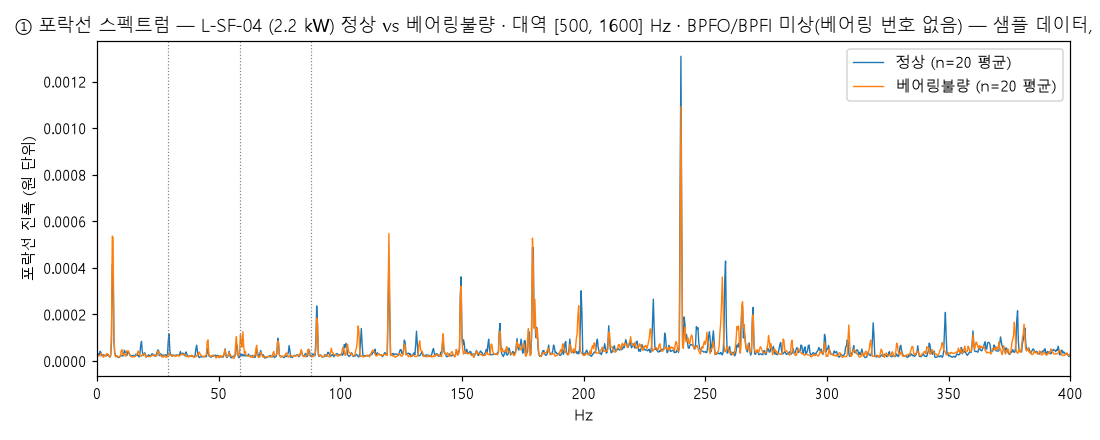
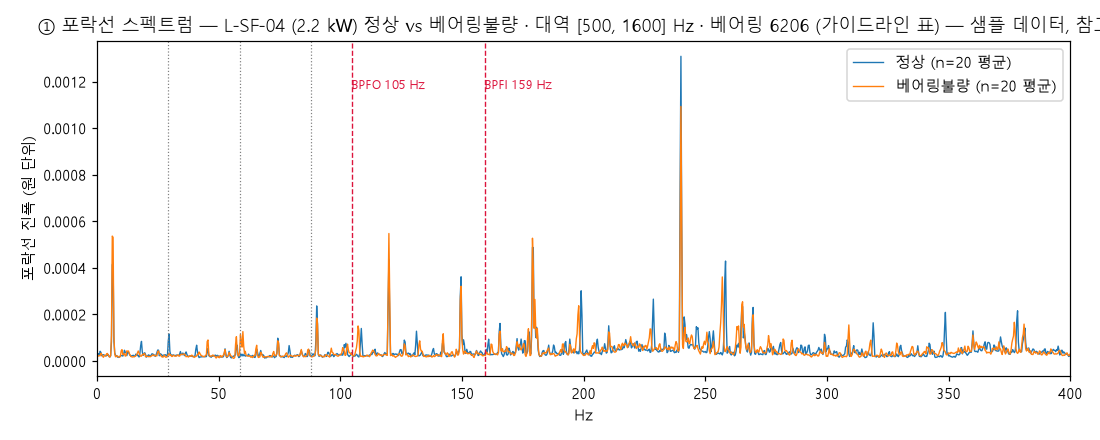
AI Hub 설명서 2종 반영 — 진동 단위 g·단축 vertical·VVVF·라벨링 기준 확정 (docs/aihub_structure.md §11), config/aihub_bearings.yaml (가이드라인 표의 모터별 베어링 + 카탈로그 기하 추정), 포락선 BPFO/BPFI 배율 계산 (bearing_known·bearing_source), 요약·그림·보정 메모 §2b 갱신, 테스트 갱신 (114 통과)

Changed region(s): [[0.0, 0.0295, 1.0, 0.0886], [0.3091, 0.1773, 0.4018, 0.2068], [0.4327, 0.1773, 0.4945, 0.2068]]

diff --git a/motor_dt_viz/tools/aihub/extract_features.py b/motor_dt_viz/tools/aihub/extract_features.py
@@ -34,6 +34,31 @@ from scipy.stats import kurtosis  # noqa: E402
 VIZ = Path(__file__).resolve().parents[2]
 CFG = yaml.safe_load(open(VIZ / "config" / "aihub_features.yaml", encoding="utf-8"))
 FMT = yaml.safe_load(open(VIZ / "config" / "aihub_format.yaml", encoding="utf-8"))
+BRG = yaml.safe_load(open(VIZ / "config" / "aihub_bearings.yaml", encoding="utf-8")) if (VIZ / "config" / "aihub_bearings.yaml").exists() else {"geometry": {}, "motors": {}}
+
+
+def bearing_mults(motor_name: str, side: str = "de") -> tuple[float, float, str] | None:
+    """가이드라인 표의 모터별 베어링 → (BPFO/fr, BPFI/fr, 호칭). 없으면 None (우리 M1~M5 값으로 대신하지 않는다)."""
+    m = BRG["motors"].get(motor_name)
+    if not m:
+        return None
+    g = BRG["geometry"].get(str(m[side]))
+    if not g:
+        return None
+    import math
+    k = g["ball_d_mm"] / g["pitch_d_mm"] * math.cos(math.radians(g.get("contact_deg", 0)))
+    return g["n_balls"] / 2 * (1 - k), g["n_balls"] / 2 * (1 + k), str(m[side])
+
+
+def envelope_ratio(f: np.ndarray, amp: np.ndarray, f0: float) -> float:
+    """포락선 스펙트럼에서 f0 ±tol 피크 ÷ 주변(±noise_window, 피크 영역 제외) 중앙값."""
+    tol = CFG.get("envelope_peak_tolerance", 0.03); w = CFG.get("envelope_noise_window_hz", 25)
+    pk = (f >= f0 * (1 - tol)) & (f <= f0 * (1 + tol))
+    nb = (f >= f0 - w) & (f <= f0 + w) & ~pk
+    if not pk.any() or nb.sum() < 5:
+        return float("nan")
+    floor = float(np.median(amp[nb]))
+    return float(amp[pk].max() / floor) if floor > 0 else float("nan")
 
 
 # ------------------------------------------------------------------ 신호 처리
@@ -144,6 +169,18 @@ def features_for_file(r: pd.Series, l2: Path) -> list[dict]:
         if not np.isfinite(fr_use):
             lo, hi = CFG["fr_search_hz"]; m = (f >= lo) & (f <= hi); fr_use = float(f[m][np.argmax(amp[m])]); fr_source = "peak_search"
         tol = CFG["harmonic_tolerance"]
+        # 베어링 포락선 배율: 가이드라인 표의 베어링(DE·NDE)이 있을 때만. 진동 신호만 (전류는 NaN)
+        env_cols = {"env_bpfo_ratio": float("nan"), "env_bpfi_ratio": float("nan"), "env_bpfo_ratio_nde": float("nan"), "env_bpfi_ratio_nde": float("nan"),
+                    "bearing_known": False, "bearing_de": "", "bearing_nde": "", "bpfo_hz": float("nan"), "bpfi_hz": float("nan"), "bearing_source": ""}
+        bm = bearing_mults(str(r["aihub_motor_name"]), "de") if r["signal"] == "vibration" else None
+        if bm and np.isfinite(fr):
+            fe, ae = envelope_spectrum(x, fs)
+            env_cols.update({"env_bpfo_ratio": envelope_ratio(fe, ae, bm[0] * fr), "env_bpfi_ratio": envelope_ratio(fe, ae, bm[1] * fr),
+                             "bearing_known": True, "bearing_de": bm[2], "bpfo_hz": bm[0] * fr, "bpfi_hz": bm[1] * fr,
+                             "bearing_source": "guideline table + catalog geometry (estimated)"})
+            bn = bearing_mults(str(r["aihub_motor_name"]), "nde")
+            if bn:
+                env_cols.update({"env_bpfo_ratio_nde": envelope_ratio(fe, ae, bn[0] * fr), "env_bpfi_ratio_nde": envelope_ratio(fe, ae, bn[1] * fr), "bearing_nde": bn[2]})
         lo_s, hi_s = CFG["fr_search_hz"]; ms = (f >= lo_s) & (f <= hi_s)
         fr_peak = float(f[ms][np.argmax(amp[ms])]) if ms.any() else float("nan")   # 1× 피크 탐색값 — 어노테이션 rpm 과 다르면 인버터 구동 의심
         row = {
@@ -155,7 +192,7 @@ def features_for_file(r: pd.Series, l2: Path) -> list[dict]:
             "vel_unit_note": f"accel_unit={CFG['accel_unit']} (추정)" if r["signal"] == "vibration" else "",
             "fr_hz": fr_use, "fr_source": fr_source, "fr_peak_hz": fr_peak,
             "a_1x": peak_near(f, amp, fr_use, tol), "a_2x": peak_near(f, amp, 2 * fr_use, tol), "a_3x": peak_near(f, amp, 3 * fr_use, tol),
-            "env_bpfo_ratio": float("nan"), "env_bpfi_ratio": float("nan"), "bearing_known": False,
+            **env_cols,
             "band_lo": band_rms(x, fs, *CFG["bands_hz"]["lo"]), "band_mid": band_rms(x, fs, *CFG["bands_hz"]["mid"]), "band_hi": band_rms(x, fs, *CFG["bands_hz"]["hi"]),
             "clipping_ratio": float(np.mean(np.abs(x) >= CFG["clipping_top_fraction"] * np.abs(x).max())) if np.abs(x).max() > 0 else 0.0,
             "dc_offset": float(x.mean()), "nan_count": int(np.isnan(x).sum()),
@@ -199,7 +236,11 @@ def make_plots(feat: pd.DataFrame, meta: pd.DataFrame, l2: Path, plots: Path) ->
         fr = brg["rated_rpm"].iloc[0] / 60
         for k in (1, 2, 3): ax.axvline(k * fr, color="gray", ls=":", lw=.8)
         ax.set_xlim(0, 400); ax.set_xlabel("Hz"); ax.set_ylabel("포락선 진폭 (원 단위)"); ax.legend()
-        ax.set_title(f"① 포락선 스펙트럼 — {m} ({brg['power_kw'].iloc[0]} kW) 정상 vs 베어링불량 · 대역 {CFG['envelope_band_hz']} Hz · BPFO/BPFI 미상(베어링 번호 없음) — {TAG}")
+        bm = bearing_mults(str(m), "de")
+        if bm:
+            for mult, nm in ((bm[0], "BPFO"), (bm[1], "BPFI")):
+                ax.axvline(mult * fr, color="crimson", ls="--", lw=.9); ax.text(mult * fr, ax.get_ylim()[1] * .85, f"{nm} {mult*fr:.0f} Hz", color="crimson", fontsize=8)
+        ax.set_title(f"① 포락선 스펙트럼 — {m} ({brg['power_kw'].iloc[0]} kW) 정상 vs 베어링불량 · 대역 {CFG['envelope_band_hz']} Hz · 베어링 {bm[2] if bm else '미상'} (가이드라인 표) — {TAG}")
         p = plots / "01_envelope_normal_vs_bearing.png"; fig.tight_layout(); fig.savefig(p, dpi=110); plt.close(fig); made.append(p.name)
     # ② 정상 vs 축정렬불량 속도 스펙트럼 1×·2×
     mis = vib[vib["label_no"] == "03"]
@@ -242,14 +283,15 @@ def write_summary(feat: pd.DataFrame, meta: pd.DataFrame, report: dict, path: Pa
     fc = feat[feat["signal"] == "current"]
     L = ["# AI Hub 경량 샘플 특징 요약 (S3) — 참고용", "",
          "**경량 샘플 기준 참고값. 표본이 적고 원본과 다를 수 있어 임계값 보정에 사용하지 않는다.** "
-         "진동 단위는 설명서 미확인(g 추정)이라 속도 RMS 절대값은 단위가 확정되면 달라질 수 있다.", "",
+         "진동 단위 g 는 가이드라인 v2.4 로 확정. 베어링 배율은 가이드라인 표의 베어링 호칭 + 카탈로그 기하(추정)로 계산한 값이다.", "",
          f"- 입력: L2 {len(meta)} 파일 (진동 {int((meta['signal']=='vibration').sum())}, 전류 {int((meta['signal']=='current').sum())}), 특징 {len(feat)} 행(파일·채널). "
          f"변환 {report.get('s_per_file', 0)*1000:.1f} ms/파일, CSV→Parquet 크기비 ×{report.get('size_ratio', 0)}.", ""]
     L += ["## 1. 용량·라벨별 파일 수와 속도 RMS (진동, mm/s, g 추정)", "",
           "| 용량 | 모터 | 라벨 | 파일 | vel_rms 중앙값 | 최소~최대 | 95 % | 가속도 RMS 중앙값 (원 단위) | crest 중앙값 | 포락선 배율 |", "|---|---|---|---|---|---|---|---|---|---|"]
     for (kw, m, lab), g in fv.groupby(["power_kw", "aihub_motor_name", "label"]):
         v = g["vel_rms_mm_s"]
-        L.append(f"| {kw} | {m} | {lab} | {len(g)} | {v.median():.2f} | {v.min():.2f}~{v.max():.2f} | {v.quantile(.95):.2f} | {g['rms'].median():.4f} | {g['crest_factor'].median():.1f} | 계산 안 됨 (베어링 번호 없음) |")
+        eb = g["env_bpfo_ratio"]
+        L.append(f"| {kw} | {m} | {lab} | {len(g)} | {v.median():.2f} | {v.min():.2f}~{v.max():.2f} | {v.quantile(.95):.2f} | {g['rms'].median():.4f} | {g['crest_factor'].median():.1f} | " + (f"BPFO {eb.median():.1f} / BPFI {g['env_bpfi_ratio'].median():.1f} ({g['bearing_de'].iloc[0]})" if eb.notna().any() else "베어링 미상") + " |")
     # ISO 위치
     L += ["", "## 2. 현재 임계값과의 대략적 위치 (참고)", ""]
     for kw, g in fv[fv["label_no"] == "00"].groupby("power_kw"):
@@ -278,7 +320,7 @@ def write_summary(feat: pd.DataFrame, meta: pd.DataFrame, report: dict, path: Pa
           "- 진동 crest factor > 10 파일이 축정렬불량·불평형에 몰려 있다 — 충격성 성분인지 센서 글리치인지 전체 데이터에서 포락선으로 재확인.",
           "- `L-EF-04` 는 센서ID 에 따라 Motor Spec(rpm·정격전류)이 둘이다. 전체 데이터에서 같은 모터명 아래 사양이 바뀌는 경우를 메타에서 센서ID 로 구분해야 한다.",
           "- 결함 라벨이 모터당 한 종류라 정상 vs 결함 비교는 같은 모터의 정상과만 한다. 학습/검증 분할은 모터 단위로.",
-          "- 진동 1축·방향 미상, 베어링 번호 없음 → 포락선 BPFO/BPFI 배율은 전체 데이터에서도 NaN. 설명서에 베어링 모델이 있으면 config 한 줄로 켠다.",
+          "- 진동은 1축 vertical(가이드라인). 베어링 호칭은 헤더에 없고 가이드라인 표(모터별)에서 가져왔으며 기하는 카탈로그 추정 → 배율은 참고값.",
           "- 전류 DC 오프셋(−0.02~−0.26 A)은 특징 추출에서 제거했고 dc_offset 열에 남겼다.",
           "- **55 kW 두 대는 인버터 구동**이다 (전류 기본파 49.6 / 57.5 / 50.8 Hz, 모터·라벨마다 다름). 어노테이션 rpm(1760)은 명판값이라 실제 회전수와 다르므로 55 kW 의 fr_hz·a_1x 는 신뢰하지 않는다 — `fr_peak_hz` 열(1× 피크 탐색)과 비교. 2.2 kW 네 대는 60.00 Hz 상용 전원이다.",
           "- **55 kW 전류는 센서 범위 ±82 A 에서 포화**된다 (최대값 81.995 A 가 파일마다 반복, 평탄 구간 최대 17 %). RMS 58 A 면 피크 82 A 를 넘으므로 파형이 잘린다 → 55 kW 전류 특징(THD·고조파)은 쓰지 말 것. 2.2 kW 는 포화 없음.",

diff --git a/motor_dt_viz/tools/aihub/run_pipeline.py b/motor_dt_viz/tools/aihub/run_pipeline.py
@@ -275,33 +275,34 @@ def write_feature_summary(feat: pd.DataFrame, meta: pd.DataFrame, dt: float):
     plots = DOCS / "aihub_plots"; plots.mkdir(exist_ok=True)
     L = ["# AI Hub 238 선별본 특징 요약 (D3) — docs/aihub_feature_summary.md", "",
          "**다음 작업(임계값 보정)의 입력이다.** 단, 이번 실행은 *경량 샘플 zip* 을 원본으로 썼으므로 수치는 참고용이고 전체 데이터가 오면 같은 명령으로 다시 만든다.",
-         f"진동 단위는 설명서 미확인(g 추정) — `config/aihub_features.yaml accel_unit`.", "",
+         "진동 단위 g 는 가이드라인 v2.4 로 확정. 포락선 BPFO/BPFI 배율은 가이드라인 표의 모터별 베어링 호칭(`config/aihub_bearings.yaml`) + 카탈로그 기하(추정)로 계산 — 참고값.", "",
          f"- 특징 {len(feat)} 행 / {len(meta)} 파일, {dt:.1f} s. 결측률(선별 신호에 해당하는 열만): " + (", ".join(f"{k} {v:.0%}" for k, v in feat.isna().mean().items() if 0 < v < 1) or "없음") + ". 전부 NaN 인 열: " + ", ".join(k for k, v in feat.isna().mean().items() if v == 1) + " (베어링 번호 없음 / 전류 전용).", "",
          "## 1. 용량·라벨별 속도 RMS (mm/s)", "", "| 모터 ID | 용량 | 모터 | 라벨 | 파일 | 평균 | 중앙값 | 95 % | 최대 | crest 중앙값 | kurtosis 중앙값 | 포락선 BPFO 배율 |", "|---|---|---|---|---|---|---|---|---|---|---|---|"]
     for (mid, kw, m, lab), g in fv.groupby(["motor_id", "power_kw", "aihub_motor_name", "label"], dropna=False):
         v = g["vel_rms_mm_s"]
-        L.append(f"| {mid} | {kw:g} | {m} | {lab} | {len(g)} | {v.mean():.3f} | {v.median():.3f} | {v.quantile(.95):.3f} | {v.max():.3f} | {g['crest_factor'].median():.1f} | {g['kurtosis'].median():.1f} | NaN (베어링 번호 없음) |")
+        eb = g["env_bpfo_ratio"]
+        L.append(f"| {mid} | {kw:g} | {m} | {lab} | {len(g)} | {v.mean():.3f} | {v.median():.3f} | {v.quantile(.95):.3f} | {v.max():.3f} | {g['crest_factor'].median():.1f} | {g['kurtosis'].median():.1f} | " + (f"BPFO {eb.median():.1f} (95 % {eb.quantile(.95):.1f}) / BPFI {g['env_bpfi_ratio'].median():.1f} · {g['bearing_de'].iloc[0]}" if eb.notna().any() else "베어링 미상") + " |")
     L += ["", "## 2. 정상 속도 RMS 의 ISO 등급 위치 (용량별)", "", "| 모터 ID | 용량 | 정상 파일 | 중앙값 | 95 % | 적용 규격 | 경고 하한 | 중앙값/경고 | 95 %/경고 |", "|---|---|---|---|---|---|---|---|---|"]
     for (mid, kw), g in fv[fv["label_no"] == "00"].groupby(["motor_id", "power_kw"], dropna=False):
         std, lim = ("ISO 10816-1 Class I", 1.8) if kw < 15 else ("ISO 20816-3 Group 2", 1.4)
         v = g["vel_rms_mm_s"]
         L.append(f"| {mid} | {kw:g} | {len(g)} | {v.median():.3f} | {v.quantile(.95):.3f} | {std} | {lim} | {v.median()/lim:.0%} | {v.quantile(.95)/lim:.0%} |")
-    L += ["", "## 3. 정상 vs 베어링 불량 — 포락선 배율 대신 쓸 수 있는 지표", "",
-          "베어링 번호가 없어 `env_bpfo_ratio` 는 전부 NaN 이다. 대신 같은 모터의 정상 대비 고주파 대역 RMS(`band_hi`, 1 kHz~)·kurtosis·속도 RMS 분포를 비교한다 (박스플롯 `docs/aihub_plots/`).", ""]
+    L += ["", "## 3. 정상 vs 베어링 불량 — 포락선 배율과 보조 지표", "",
+          "`env_bpfo_ratio` = 포락선 스펙트럼의 BPFO 피크 ÷ 주변 ±25 Hz 바닥(중앙값). 베어링 호칭은 가이드라인 표, 기하는 카탈로그 추정. 같은 모터의 정상 대비 고주파 대역 RMS·kurtosis·속도 RMS 도 함께 본다 (박스플롯 `docs/aihub_plots/`).", ""]
     brg = fv[fv["label_no"] == "01"]
     if len(brg):
         for m in brg["aihub_motor_name"].unique():
             nor = fv[(fv["aihub_motor_name"] == m) & (fv["label_no"] == "00")]; b = brg[brg["aihub_motor_name"] == m]
-            for col in ("vel_rms_mm_s", "band_hi", "kurtosis", "rms"):
+            for col in ("env_bpfo_ratio", "env_bpfi_ratio", "vel_rms_mm_s", "band_hi", "kurtosis", "rms"):
                 L.append(f"- {m} `{col}`: 정상 중앙값 {nor[col].median():.4g} (n={len(nor)}) vs 베어링불량 {b[col].median():.4g} (n={len(b)}) → 비 {b[col].median()/max(nor[col].median(),1e-12):.2f}")
     # 그림: 라벨별 박스 (vel_rms, band_hi)
     fig, axes = plt.subplots(1, 2, figsize=(12, 4.5))
     fv["grp"] = fv["motor_id"].astype(str) + " " + fv["aihub_motor_name"] + "\n" + fv["label"]
     order = sorted(fv["grp"].unique())
-    for ax, col, ttl in zip(axes, ("vel_rms_mm_s", "band_hi"), ("속도 RMS mm/s (g 추정)", "고주파 대역 RMS (1 kHz~, 원 단위)")):
+    for ax, col, ttl in zip(axes, ("vel_rms_mm_s", "env_bpfo_ratio"), ("속도 RMS mm/s (g)", "포락선 BPFO 배율 (피크/바닥, 가이드라인 베어링)")):
         ax.boxplot([fv[fv["grp"] == g][col].dropna() for g in order], tick_labels=order, showfliers=True); ax.set_title(ttl); ax.tick_params(axis="x", labelsize=7)
-    fig.suptitle("선별본 라벨별 분포 — 경량 샘플 기반, 참고용 (포락선 BPFO 배율은 베어링 번호 없어 계산 불가)")
-    fig.tight_layout(); p = plots / "label_box_vel_bandhi.png"; fig.savefig(p, dpi=110); plt.close(fig)
+    fig.suptitle("선별본 라벨별 분포 — 경량 샘플 기반, 참고용 (베어링 호칭은 가이드라인 표, 기하는 카탈로그 추정)")
+    fig.tight_layout(); p = plots / "label_box_vel_bpfo.png"; fig.savefig(p, dpi=110); plt.close(fig)
     L += ["", f"그림: `{p.relative_to(VIZ).as_posix()}`"]
     (DOCS / "aihub_feature_summary.md").write_text("\n".join(L) + "\n", encoding="utf-8")
     print(f"[features] 요약 → {DOCS / 'aihub_feature_summary.md'}, 그림 {p.name}")

diff --git a/motor_dt_viz/tests/test_aihub_features.py b/motor_dt_viz/tests/test_aihub_features.py
@@ -41,6 +41,21 @@ def test_harmonic_peaks_and_fr_search():
     assert ef.peak_near(f, amp, 3 * fr, 0.03) < 0.05
 
 
+def test_bearing_multipliers_from_guideline_map():
+    import extract_features as ef
+    bm = ef.bearing_mults("L-SF-04", "de")                   # 6206: 9볼, 9.525/46 → BPFO 3.57, BPFI 5.43
+    assert bm and bm[2] == "6206" and bm[0] == pytest.approx(3.57, abs=0.02) and bm[1] == pytest.approx(5.43, abs=0.02)
+    assert ef.bearing_mults("NO-SUCH-MOTOR") is None
+    # 포락선 배율: 합성 충격열(BPFO 주기)에서 피크/바닥 비가 커야 한다
+    fs, fr = 4000.0, 29.3; t = np.arange(0, 3, 1 / fs); bpfo = bm[0] * fr
+    x = 0.002 * np.random.default_rng(0).standard_normal(len(t))
+    for k in np.arange(0, 3, 1 / bpfo):
+        dt = np.clip(t - k, 0, None)                           # 충격 전 구간은 0 (exp 오버플로 방지)
+        x += np.where(t >= k, 0.05 * np.exp(-dt * 800) * np.sin(2 * np.pi * 1200 * dt), 0.0)
+    fe, ae = ef.envelope_spectrum(x, fs)
+    assert ef.envelope_ratio(fe, ae, bpfo) > 5
+
+
 def test_i2i1_symmetrical_components():
     import extract_features as ef
     fs, f0 = 2000.0, 60.0; t = np.arange(0, 1, 1 / fs)
@@ -63,7 +78,13 @@ def test_feature_ranges():
     f = pd.read_parquet(L3)
     assert (f["rms"] >= 0).all() and (f["crest_factor"] >= 1).all() and (f["vel_rms_mm_s"].dropna() >= 0).all()
     assert f["nan_count"].eq(0).all()
-    assert f["bearing_known"].eq(False).all() and f["env_bpfo_ratio"].isna().all() and f["env_bpfi_ratio"].isna().all()
+    v0 = f[f["signal"] == "vibration"]
+    # 가이드라인 표에 베어링이 있는 모터는 배율이 계산되고, 전류 행·표에 없는 모터는 NaN + bearing_known False (M1~M5 값으로 대신하지 않는다)
+    known = v0[v0["bearing_known"]]
+    assert len(known) > 0 and known["env_bpfo_ratio"].notna().all() and (known["env_bpfo_ratio"] > 0).all() and known["bearing_source"].str.contains("guideline").all()
+    assert (known["bpfo_hz"] < known["bpfi_hz"]).all() and (known["bpfo_hz"] > 2 * known["fr_hz"]).all()
+    c0 = f[f["signal"] == "current"]
+    assert c0["bearing_known"].eq(False).all() and c0["env_bpfo_ratio"].isna().all()
     assert set(f["fr_source"]) == {"annotation_rpm"}
     v = f[f["signal"] == "vibration"]
     assert v["vel_rms_mm_s"].notna().all() and v["channel"].eq("ch1").all()

diff --git a/motor_dt_viz/tests/test_aihub.py b/motor_dt_viz/tests/test_aihub.py
@@ -75,6 +75,6 @@ def test_feature_value_ranges():
     import pandas as pd
     f = pd.read_parquet(DATA / "L3" / "features.parquet")
     assert (f["rms"] >= 0).all() and (f["crest_factor"] >= 1).all() and (f["vel_rms_mm_s"] >= 0).all()
-    assert f["bearing_known"].eq(False).all() and f["env_bpfo_ratio"].isna().all()
+    assert f["bearing_known"].all() and f["env_bpfo_ratio"].notna().all()      # 선별본(2.2 kW 4대)은 전부 가이드라인 표에 베어링이 있다
     assert f["nan_count"].eq(0).all() and set(f["motor_id"]) <= set(SEL["motor_map"].values())
     assert (VIZ / "docs" / "aihub_feature_summary.md").exists() and (VIZ / "docs" / "aihub_selection.md").exists()

diff --git a/motor_dt_viz/docs/aihub_structure.md b/motor_dt_viz/docs/aihub_structure.md
@@ -1,8 +1,8 @@
 # AI Hub 「기계시설물 고장 예지 센서」 경량 샘플 — 데이터 구조 확정 보고 (S0, 2026-10-07)
 
 - 샘플 위치: `C:\Users\sunwu\OneDrive\바탕 화면\2020-02-125.기계시설물고장예지_sample\` (zip 동일 내용, 842 MB, CSV 4,674개). 외부 데이터로 격리 — 스크립트는 `motor_dt_viz/tools/aihub/`, 실행은 `python -I`.
-- **설명서·구축활용가이드 PDF는 샘플에 없다.** AI Hub 페이지(dataSetSn=238)는 로그인 뒤 다운로드라 자동으로 받지 못했다. 페이지 공개 정보(어노테이션 항목, 라벨 번호, 용량 목록, 모터 41대)만 대조했다.
-  → 사용자가 PDF 2종을 `motor_dt_viz/data/aihub/docs/` 에 넣어 주면 아래 "설명서에 없음" 항목을 보강한다.
+- 설명서 2종은 2026-10-08 에 받아 `motor_dt_viz/data/aihub/docs/` 에 두었다: 「인공지능 데이터 구축·활용 가이드라인 — 기계시설물 진동/전류 데이터」 v2.4 (2021-07-16),
+  「테크니컬 리포트 2020년 2차 — 기계시설물 고장 예지 센서」. §1~§10 의 "설명서에 없음" 항목은 **§11 에서 확정**했다 (본문은 샘플 스캔 당시 기록으로 남긴다).
 - 아래 표의 값은 **샘플 4,674개 전부를 스캔한 사실**이다. 추측한 항목은 "설명서에 없음"으로 적고 추정을 따로 표시했다.
 
 ## 1. 폴더 구조·파일 명명
@@ -123,3 +123,36 @@ AI Hub 페이지의 번호(정상 00, 베어링 01, 불평형 02, 축정렬 03, 
 | 클리핑 지표 | `clipping_ratio` = \|x\| ≥ 0.995·max 비율. 순수 사인파도 6.4 % 가 나오므로 **10 % 초과만 의심**으로 보고한다 (샘플: 55 kW 전류 361 채널·파일, 전부 포화 때문) |
 | 변환 성능 | 4,674 파일 32 s = **6.9 ms/파일**, CSV 830 MB → Parquet 335 MB (**×0.40**, float32·zstd). 검증 20/20 (allclose), 길이·샘플률 불일치 0, NaN 0 |
 | 특징 성능 | 9,342 행(파일·채널) 25 s = 5.4 ms/파일 |
+
+## 11. 설명서 반영 — "설명서에 없음" 항목 확정 (2026-10-08)
+
+| 항목 | 설명서 확인 결과 | 출처 | 반영 |
+|---|---|---|---|
+| 진동 단위 | **g (가속도)**. 검수 기준 "진동 실효값 0.12 g 이하", 그래프 축 Amp(g). 가속도 센서 → DAQ 에서 민감도로 가속도 변환 | 가이드라인 §2.3.1, §2.5.2 | `aihub_format.yaml unit: g`, `aihub_features.yaml accel_unit: g` (추정 → 확정) |
+| 진동 채널·방향 | **단축(vertical)**, 모터 외부 부착. "3축 대신 단축 측정으로 거동 파악 충분" | 가이드라인 §1.3.2 | `channels.vibration.dir: vertical` |
+| 전류 채널 | Time + **R, S, T 상전류** (3상), 인버터 전류센서 | 가이드라인 §1.3.2, 테크니컬 리포트 | 변경 없음 (3상 확인) |
+| 샘플 주파수·길이 | 기본 **4 kHz 3 s**, 기기 조건에 따라 변경 가능하며 헤더에 명시. 가이드라인 예시의 전류 파일은 2 kHz·Data Length 6000(3 s) — 샘플(2 kHz·1 s·2000)과 다르다 → 전체 데이터는 전류 3 s 파일이 섞일 수 있다 (파서는 헤더값을 쓰므로 그대로 동작) | 테크니컬 리포트 p.3, 가이드라인 §1.3.2 | 길이 검사는 헤더 기준(이미 그렇게 함) |
+| 어노테이션 | Date, Filename, Data Label, Label_No, Motor Spec(rpm, 정격출력, 정격전류), Period, Sample Rate, RMS, Data Length — 샘플과 동일 | 가이드라인 §1.3.1 | 변경 없음 |
+| 베어링 번호 | 헤더에는 없지만 **"장비별 고장모의 현황 및 라벨링 지정" 표에 모터별 부하측/반부하측 베어링 호칭**이 있다 (예: L-SF-04 6206/6206 그리스 제거, L-DSF-01 6206/6205, L-EF-04 6206/6205, R-EF-05 6206/6205, L-PAHU-03S 6315/6212, R-PAHU-04S 6315/6212) | 가이드라인 §2.4.2 p.27~28 | `config/aihub_bearings.yaml` (호칭은 가이드라인, 기하는 카탈로그 추정) → `env_bpfo_ratio`·`env_bpfi_ratio` 계산, `bearing_known=True`, `bearing_source` 기록 |
+| 인버터 구동 | **37 kW 1대, 55 kW 2대가 VVVF 인버터 제어** — 샘플에서 본 55 kW 기본파 49.6~57.5 Hz 와 일치 | 가이드라인 §2.2.2 표 | 55 kW 의 fr 은 어노테이션 rpm 대신 `fr_peak_hz`·전류 기본파로 |
+| 운전 조건 | 역사 공조기 모터는 **계획 운전(예: 1시간에 10분)**, 정속. 부하 사양은 테크니컬 리포트의 `stress_specification`(정토크/2승저감)에 있으나 배포 CSV 헤더에는 없다 | 가이드라인 §1.2, 리포트 p.5 | 기록만 |
+| 라벨링 방식 | 고장은 **인위 모의**(그리스 제거, 납 취부, 축 이동, 벨트 이완)로 만든 장비에서 취득한 데이터에 라벨을 부여. 1차 분류는 **모터별 RMS 임계값**(진동·전류)으로, 전문가 5인이 FFT 특성으로 전수 교차검수 | 가이드라인 §2.4.2 표 p.24, §2.5 | 샘플의 "정상 vs 베어링불량이 RMS 로 거의 안 갈린다"는 관찰과 맞물림 — L-SF-04 정상 RMS<0.0068 / 불량 ≥0.0068 로 경계가 매우 얇다 |
+| 정상 검수 기준 | 진동 가속도 RMS **≤ 0.12 g(overall)**, 전류 RMS 정격 **±2 %** 이내. 근거 KS B ISO 10816-3 2군 유연지지 B/C 4.5 mm/s(30 Hz 환산 0.086 g → 보수적 0.12 g) | 가이드라인 §2.5.2 | 샘플 정상 RMS 0.0056~0.015 g 는 기준의 5~12 % — 매우 조용한 운전. 전류 ±2 % 기준은 샘플 부하율(26~70 %)과 맞지 않음 (정격 대비가 아니라 운전 전류 기준으로 보임) |
+| 경량본 가공 여부 | 가이드라인에 "가공·마스킹" 언급 없음. 데이터 정제 기준: 파일 크기 < SampleRate×bitrate×t 면 에러, 정지 상태 Magnitude ≥ 0.1 이면 에러 | §2.3.3 | 변경 없음 |
+| 전체 용량 | **"1초–3초 동안의 수집 데이터 약 50 GB"**, 진동·전류 각 100만 건 이상(계획 233만 건) | §1.5.1.2 | 사용자가 말한 500 GB 와 10배 차이 — AI Hub 페이지 표기를 다시 확인할 것 |
+| 라이선스·출처 | 가이드라인에 명시 없음. AI Hub 이용정책(회원가입 후 다운로드) 따름 | §2.6.3 | `docs/aihub_selection.md` 출처 표기 유지 |
+
+가이드라인의 모터별 RMS 라벨링 기준(p.24)은 우리 샘플 모터에 대해 다음과 같다 — 특징 테이블의 `rms` 와 바로 비교할 수 있다.
+
+| 모터 | 역사 | 정상 (진동 RMS g) | 고장 (진동) | 정상 (전류 RMS A) | 고장 (전류) |
+|---|---|---|---|---|---|
+| L-EF-04 (갑천역A Ch1) | 갑천 | < 0.007 | 없음 | > 3.0 | 없음 |
+| L-EF-04 (대전역A Ch8) | 대전 | ≥ 0.0130 | < 0.0130 (불평형) | 1.5~2.9 | 2.9~4 |
+| L-SF-04 (갑천역A Ch3) | 갑천 | < 0.0068 | ≥ 0.0068 (베어링) | 2~3.1 | 3.1~5 |
+| L-DSF-01 (시청역A Ch7) | 시청 | < 0.0058 | ≥ 0.0058 (축정렬) | 1.5~2.3 | 2.3~3 |
+| R-EF-05 (대전역B Ch10) | 대전 | ≥ 0.0077 | < 0.0077 (벨트) | 1.5~2.4 | 2.4~4 |
+| L-PAHU-03S (대전역A Ch1) | 대전 | < 0.018 | ≥ 0.018 (불평형) | 5~59 | 59~62 |
+| R-PAHU-04S (대전역B Ch9) | 대전 | ≥ 0.0135 | < 0.0135 (벨트) | 5~59 | 59~63 |
+
+- **L-EF-04 가 두 역사(갑천·대전)에 각각 있다** — §4 의 "Motor Spec 이 둘" 은 센서 교체가 아니라 **동명이기(同名異機)** 다. 센서ID(0105-0106 대전 / 0105-0160 갑천, LW17-8125 / LW19-3455)로 구분해야 하며, 메타의 `sensor_id` 가 그 역할을 한다.
+- 일부 모터는 "정상이 고장보다 RMS 가 높다"(L-EF-04 대전, R-EF-05, R-PAHU-04S) — 라벨이 모터·시기별 RMS 경계로 갈린 것이라 **RMS 크기만으로 정상/고장을 일반화할 수 없다**는 뜻이다. 샘플 요약(§aihub_sample_summary)에서 본 "축정렬불량이 정상보다 낮다"가 이것이다.

diff --git a/motor_dt_viz/docs/aihub_sample_summary.md b/motor_dt_viz/docs/aihub_sample_summary.md
@@ -1,6 +1,6 @@
 # AI Hub 경량 샘플 특징 요약 (S3) — 참고용
 
-**경량 샘플 기준 참고값. 표본이 적고 원본과 다를 수 있어 임계값 보정에 사용하지 않는다.** 진동 단위는 설명서 미확인(g 추정)이라 속도 RMS 절대값은 단위가 확정되면 달라질 수 있다.
+**경량 샘플 기준 참고값. 표본이 적고 원본과 다를 수 있어 임계값 보정에 사용하지 않는다.** 진동 단위 g 는 가이드라인 v2.4 로 확정. 베어링 배율은 가이드라인 표의 베어링 호칭 + 카탈로그 기하(추정)로 계산한 값이다.
 
 - 입력: L2 4674 파일 (진동 2340, 전류 2334), 특징 9342 행(파일·채널). 변환 6.9 ms/파일, CSV→Parquet 크기비 ×0.404.
 
@@ -8,18 +8,18 @@
 
 | 용량 | 모터 | 라벨 | 파일 | vel_rms 중앙값 | 최소~최대 | 95 % | 가속도 RMS 중앙값 (원 단위) | crest 중앙값 | 포락선 배율 |
 |---|---|---|---|---|---|---|---|---|---|
-| 2.2 | L-DSF-01 | 정상 | 100 | 0.13 | 0.10~0.16 | 0.14 | 0.0057 | 7.3 | 계산 안 됨 (베어링 번호 없음) |
-| 2.2 | L-DSF-01 | 축정렬불량 | 207 | 0.10 | 0.09~0.13 | 0.12 | 0.0062 | 6.5 | 계산 안 됨 (베어링 번호 없음) |
-| 2.2 | L-EF-04 | 정상 | 420 | 0.16 | 0.15~0.19 | 0.17 | 0.0056 | 3.7 | 계산 안 됨 (베어링 번호 없음) |
-| 2.2 | L-EF-04 | 회전체불평형 | 205 | 0.35 | 0.31~0.41 | 0.39 | 0.0124 | 4.6 | 계산 안 됨 (베어링 번호 없음) |
-| 2.2 | L-SF-04 | 베어링불량 | 240 | 0.21 | 0.20~0.24 | 0.22 | 0.0071 | 3.7 | 계산 안 됨 (베어링 번호 없음) |
-| 2.2 | L-SF-04 | 정상 | 84 | 0.20 | 0.19~0.21 | 0.21 | 0.0068 | 3.8 | 계산 안 됨 (베어링 번호 없음) |
-| 2.2 | R-EF-05 | 벨트느슨함 | 193 | 0.26 | 0.24~0.29 | 0.27 | 0.0071 | 3.5 | 계산 안 됨 (베어링 번호 없음) |
-| 2.2 | R-EF-05 | 정상 | 76 | 0.28 | 0.27~0.30 | 0.29 | 0.0080 | 3.8 | 계산 안 됨 (베어링 번호 없음) |
-| 55.0 | L-PAHU-03S | 정상 | 165 | 0.40 | 0.34~0.78 | 0.47 | 0.0146 | 9.2 | 계산 안 됨 (베어링 번호 없음) |
-| 55.0 | L-PAHU-03S | 회전체불평형 | 206 | 0.60 | 0.53~0.98 | 0.68 | 0.0190 | 9.8 | 계산 안 됨 (베어링 번호 없음) |
-| 55.0 | R-PAHU-04S | 벨트느슨함 | 365 | 0.28 | 0.25~0.38 | 0.32 | 0.0103 | 4.2 | 계산 안 됨 (베어링 번호 없음) |
-| 55.0 | R-PAHU-04S | 정상 | 79 | 0.25 | 0.22~0.32 | 0.30 | 0.0147 | 5.7 | 계산 안 됨 (베어링 번호 없음) |
+| 2.2 | L-DSF-01 | 정상 | 100 | 0.13 | 0.10~0.16 | 0.14 | 0.0057 | 7.3 | BPFO 1.9 / BPFI 2.0 (6206) |
+| 2.2 | L-DSF-01 | 축정렬불량 | 207 | 0.10 | 0.09~0.13 | 0.12 | 0.0062 | 6.5 | BPFO 1.9 / BPFI 2.2 (6206) |
+| 2.2 | L-EF-04 | 정상 | 420 | 0.16 | 0.15~0.19 | 0.17 | 0.0056 | 3.7 | BPFO 2.8 / BPFI 2.6 (6206) |
+| 2.2 | L-EF-04 | 회전체불평형 | 205 | 0.35 | 0.31~0.41 | 0.39 | 0.0124 | 4.6 | BPFO 2.4 / BPFI 1.8 (6206) |
+| 2.2 | L-SF-04 | 베어링불량 | 240 | 0.21 | 0.20~0.24 | 0.22 | 0.0071 | 3.7 | BPFO 4.7 / BPFI 3.2 (6206) |
+| 2.2 | L-SF-04 | 정상 | 84 | 0.20 | 0.19~0.21 | 0.21 | 0.0068 | 3.8 | BPFO 2.9 / BPFI 3.4 (6206) |
+| 2.2 | R-EF-05 | 벨트느슨함 | 193 | 0.26 | 0.24~0.29 | 0.27 | 0.0071 | 3.5 | BPFO 2.1 / BPFI 2.1 (6206) |
+| 2.2 | R-EF-05 | 정상 | 76 | 0.28 | 0.27~0.30 | 0.29 | 0.0080 | 3.8 | BPFO 5.1 / BPFI 3.1 (6206) |
+| 55.0 | L-PAHU-03S | 정상 | 165 | 0.40 | 0.34~0.78 | 0.47 | 0.0146 | 9.2 | BPFO 4.8 / BPFI 2.6 (6315) |
+| 55.0 | L-PAHU-03S | 회전체불평형 | 206 | 0.60 | 0.53~0.98 | 0.68 | 0.0190 | 9.8 | BPFO 8.6 / BPFI 3.0 (6315) |
+| 55.0 | R-PAHU-04S | 벨트느슨함 | 365 | 0.28 | 0.25~0.38 | 0.32 | 0.0103 | 4.2 | BPFO 9.3 / BPFI 3.3 (6315) |
+| 55.0 | R-PAHU-04S | 정상 | 79 | 0.25 | 0.22~0.32 | 0.30 | 0.0147 | 5.7 | BPFO 2.1 / BPFI 2.1 (6315) |
 
 ## 2. 현재 임계값과의 대략적 위치 (참고)
 
@@ -74,7 +74,7 @@
 - 진동 crest factor > 10 파일이 축정렬불량·불평형에 몰려 있다 — 충격성 성분인지 센서 글리치인지 전체 데이터에서 포락선으로 재확인.
 - `L-EF-04` 는 센서ID 에 따라 Motor Spec(rpm·정격전류)이 둘이다. 전체 데이터에서 같은 모터명 아래 사양이 바뀌는 경우를 메타에서 센서ID 로 구분해야 한다.
 - 결함 라벨이 모터당 한 종류라 정상 vs 결함 비교는 같은 모터의 정상과만 한다. 학습/검증 분할은 모터 단위로.
-- 진동 1축·방향 미상, 베어링 번호 없음 → 포락선 BPFO/BPFI 배율은 전체 데이터에서도 NaN. 설명서에 베어링 모델이 있으면 config 한 줄로 켠다.
+- 진동은 1축 vertical(가이드라인). 베어링 호칭은 헤더에 없고 가이드라인 표(모터별)에서 가져왔으며 기하는 카탈로그 추정 → 배율은 참고값.
 - 전류 DC 오프셋(−0.02~−0.26 A)은 특징 추출에서 제거했고 dc_offset 열에 남겼다.
 - **55 kW 두 대는 인버터 구동**이다 (전류 기본파 49.6 / 57.5 / 50.8 Hz, 모터·라벨마다 다름). 어노테이션 rpm(1760)은 명판값이라 실제 회전수와 다르므로 55 kW 의 fr_hz·a_1x 는 신뢰하지 않는다 — `fr_peak_hz` 열(1× 피크 탐색)과 비교. 2.2 kW 네 대는 60.00 Hz 상용 전원이다.
 - **55 kW 전류는 센서 범위 ±82 A 에서 포화**된다 (최대값 81.995 A 가 파일마다 반복, 평탄 구간 최대 17 %). RMS 58 A 면 피크 82 A 를 넘으므로 파형이 잘린다 → 55 kW 전류 특징(THD·고조파)은 쓰지 말 것. 2.2 kW 는 포화 없음.

diff --git a/motor_dt_viz/docs/aihub_feature_summary.md b/motor_dt_viz/docs/aihub_feature_summary.md
@@ -1,20 +1,20 @@
 # AI Hub 238 선별본 특징 요약 (D3) — docs/aihub_feature_summary.md
 
 **다음 작업(임계값 보정)의 입력이다.** 단, 이번 실행은 *경량 샘플 zip* 을 원본으로 썼으므로 수치는 참고용이고 전체 데이터가 오면 같은 명령으로 다시 만든다.
-진동 단위는 설명서 미확인(g 추정) — `config/aihub_features.yaml accel_unit`.
+진동 단위 g 는 가이드라인 v2.4 로 확정. 포락선 BPFO/BPFI 배율은 가이드라인 표의 모터별 베어링 호칭(`config/aihub_bearings.yaml`) + 카탈로그 기하(추정)로 계산 — 참고값.
 
-- 특징 1127 행 / 1127 파일, 10.0 s. 결측률(선별 신호에 해당하는 열만): 없음. 전부 NaN 인 열: env_bpfo_ratio, env_bpfi_ratio, i2i1_ref, fund_hz, load_ratio (베어링 번호 없음 / 전류 전용).
+- 특징 1127 행 / 1127 파일, 13.2 s. 결측률(선별 신호에 해당하는 열만): 없음. 전부 NaN 인 열: i2i1_ref, fund_hz, load_ratio (베어링 번호 없음 / 전류 전용).
 
 ## 1. 용량·라벨별 속도 RMS (mm/s)
 
 | 모터 ID | 용량 | 모터 | 라벨 | 파일 | 평균 | 중앙값 | 95 % | 최대 | crest 중앙값 | kurtosis 중앙값 | 포락선 BPFO 배율 |
 |---|---|---|---|---|---|---|---|---|---|---|---|
-| M1 | 2.2 | L-DSF-01 | 정상 | 100 | 0.125 | 0.128 | 0.139 | 0.157 | 7.3 | 3.9 | NaN (베어링 번호 없음) |
-| M1 | 2.2 | L-DSF-01 | 축정렬불량 | 207 | 0.106 | 0.105 | 0.117 | 0.133 | 6.5 | 3.2 | NaN (베어링 번호 없음) |
-| M1 | 2.2 | L-EF-04 | 정상 | 420 | 0.161 | 0.160 | 0.169 | 0.185 | 3.7 | 2.8 | NaN (베어링 번호 없음) |
-| M1 | 2.2 | L-SF-04 | 베어링불량 | 240 | 0.212 | 0.212 | 0.223 | 0.237 | 3.7 | 2.9 | NaN (베어링 번호 없음) |
-| M1 | 2.2 | L-SF-04 | 정상 | 84 | 0.199 | 0.198 | 0.209 | 0.213 | 3.8 | 2.9 | NaN (베어링 번호 없음) |
-| M1 | 2.2 | R-EF-05 | 정상 | 76 | 0.278 | 0.278 | 0.289 | 0.298 | 3.8 | 2.9 | NaN (베어링 번호 없음) |
+| M1 | 2.2 | L-DSF-01 | 정상 | 100 | 0.125 | 0.128 | 0.139 | 0.157 | 7.3 | 3.9 | BPFO 1.9 (95 % 2.8) / BPFI 2.0 · 6206 |
+| M1 | 2.2 | L-DSF-01 | 축정렬불량 | 207 | 0.106 | 0.105 | 0.117 | 0.133 | 6.5 | 3.2 | BPFO 1.9 (95 % 2.7) / BPFI 2.2 · 6206 |
+| M1 | 2.2 | L-EF-04 | 정상 | 420 | 0.161 | 0.160 | 0.169 | 0.185 | 3.7 | 2.8 | BPFO 2.8 (95 % 4.1) / BPFI 2.6 · 6206 |
+| M1 | 2.2 | L-SF-04 | 베어링불량 | 240 | 0.212 | 0.212 | 0.223 | 0.237 | 3.7 | 2.9 | BPFO 4.7 (95 % 9.1) / BPFI 3.2 · 6206 |
+| M1 | 2.2 | L-SF-04 | 정상 | 84 | 0.199 | 0.198 | 0.209 | 0.213 | 3.8 | 2.9 | BPFO 2.9 (95 % 4.5) / BPFI 3.4 · 6206 |
+| M1 | 2.2 | R-EF-05 | 정상 | 76 | 0.278 | 0.278 | 0.289 | 0.298 | 3.8 | 2.9 | BPFO 5.1 (95 % 6.5) / BPFI 3.1 · 6206 |
 
 ## 2. 정상 속도 RMS 의 ISO 등급 위치 (용량별)
 
@@ -22,13 +22,15 @@
 |---|---|---|---|---|---|---|---|---|
 | M1 | 2.2 | 680 | 0.161 | 0.278 | ISO 10816-1 Class I | 1.8 | 9% | 15% |
 
-## 3. 정상 vs 베어링 불량 — 포락선 배율 대신 쓸 수 있는 지표
+## 3. 정상 vs 베어링 불량 — 포락선 배율과 보조 지표
 
-베어링 번호가 없어 `env_bpfo_ratio` 는 전부 NaN 이다. 대신 같은 모터의 정상 대비 고주파 대역 RMS(`band_hi`, 1 kHz~)·kurtosis·속도 RMS 분포를 비교한다 (박스플롯 `docs/aihub_plots/`).
+`env_bpfo_ratio` = 포락선 스펙트럼의 BPFO 피크 ÷ 주변 ±25 Hz 바닥(중앙값). 베어링 호칭은 가이드라인 표, 기하는 카탈로그 추정. 같은 모터의 정상 대비 고주파 대역 RMS·kurtosis·속도 RMS 도 함께 본다 (박스플롯 `docs/aihub_plots/`).
 
+- L-SF-04 `env_bpfo_ratio`: 정상 중앙값 2.854 (n=84) vs 베어링불량 4.681 (n=240) → 비 1.64
+- L-SF-04 `env_bpfi_ratio`: 정상 중앙값 3.409 (n=84) vs 베어링불량 3.219 (n=240) → 비 0.94
 - L-SF-04 `vel_rms_mm_s`: 정상 중앙값 0.1984 (n=84) vs 베어링불량 0.2119 (n=240) → 비 1.07
 - L-SF-04 `band_hi`: 정상 중앙값 0.001241 (n=84) vs 베어링불량 0.001181 (n=240) → 비 0.95
 - L-SF-04 `kurtosis`: 정상 중앙값 2.93 (n=84) vs 베어링불량 2.857 (n=240) → 비 0.98
 - L-SF-04 `rms`: 정상 중앙값 0.006765 (n=84) vs 베어링불량 0.007067 (n=240) → 비 1.04
 
-그림: `docs/aihub_plots/label_box_vel_bandhi.png`
+그림: `docs/aihub_plots/label_box_vel_bpfo.png`

diff --git a/motor_dt_viz/docs/threshold_calibration_note.md b/motor_dt_viz/docs/threshold_calibration_note.md
@@ -1,6 +1,7 @@
 # 임계값 보정 가능성 메모 (샘플 L3 기준, config 변경 없음)
 
 **결론: 지금 샘플로는 진동·베어링 임계값을 바꾸지 않는다.** 근거는 아래. 별도 지시가 있어도 이 메모의 한계를 전제로 한다.
+(2026-10-08 설명서 반영: 진동 단위 g 확정, 베어링 호칭은 가이드라인 표 → 포락선 BPFO 배율을 계산해 §2b 에 추가)
 
 ## 1. 지금 임계값 (config/thresholds.yaml + config/motors/M1.yaml)
 
@@ -15,13 +16,24 @@
 | 베어링불량 (L-SF-04) | 240 | 0.212 | 0.223 | 0.230 | 0.237 |
 | 축정렬불량 (L-DSF-01) | 207 | 0.105 | 0.117 | 0.125 | 0.133 |
 
+## 2b. 포락선 BPFO 배율 (가이드라인 베어링 6206, 기하 추정) — 현재 임계 경고 2배 / 위험 5배
+
+| 모터·라벨 | n | 중앙값 | 95 % | 최대 | ≥2배 비율 | ≥5배 비율 |
+|---|---|---|---|---|---|---|
+| L-DSF-01 정상 | 100 | 1.86 | 2.78 | 3.48 | 37% | 0% |
+| L-DSF-01 축정렬불량 | 207 | 1.93 | 2.74 | 3.42 | 45% | 0% |
+| L-EF-04 정상 | 420 | 2.84 | 4.13 | 5.49 | 92% | 1% |
+| L-SF-04 베어링불량 | 240 | 4.68 | 9.12 | 11.72 | 100% | 44% |
+| L-SF-04 정상 | 84 | 2.85 | 4.48 | 5.51 | 92% | 1% |
+| R-EF-05 정상 | 76 | 5.05 | 6.54 | 7.55 | 100% | 51% |
+
 같은 모터(L-SF-04) 정상 vs 베어링불량: 속도 RMS 0.198 → 0.212 mm/s (×1.07), 고주파 대역 RMS ×0.95, kurtosis 2.93 → 2.86, crest 3.8 → 3.7.
 
 ## 3. 왜 지금 바꾸지 않나
 
 - 정상의 99 % 값(0.29 mm/s)이 현재 경고 하한(1.8)의 16 % 다. 경고선을 데이터 쪽으로 내리면(0.58 mm/s 같은 값) 베어링불량(중앙값 0.21)도 못 잡는다 — 이 샘플의 베어링불량은 속도 RMS 로 구분되지 않는다.
-- 베어링 지표(포락선 BPFO 배율)는 베어링 번호가 없어 계산 자체가 안 됐다. 보정할 수치가 없다.
-- 진동 단위가 설명서로 확정되지 않았다 (g 가정). m/s² 라면 값이 1/9.8 이 되어 결론이 바뀐다.
+- 베어링 지표(포락선 BPFO 배율)는 가이드라인 베어링으로 계산했지만(§2b) 기하가 카탈로그 추정이고 정상 파일에서도 피크/바닥 비가 2배를 넘는 경우가 있어 경계(2/5배)를 이 표본으로 옮길 근거가 약하다.
+- 진동 단위는 g 로 확정됐다(가이드라인). 가이드라인의 정상 검수 기준(가속도 RMS ≤ 0.12 g)에 대해 샘플 정상은 5~12 % 수준이라 ISO 등급 아래쪽에 몰려 있다.
 - 표본이 M1 한 용량·4대·하루치뿐이고, 결함 라벨은 모터당 한 종류라 '정상 vs 결함' 이 '모터 A vs 모터 B' 와 섞인다. 축정렬불량(L-DSF-01)은 오히려 그 모터의 정상보다 낮다.
 - 측정 조건(팬 모터, 정속 연속, 1축)이 크레인 권상 모터(간헐·가변 부하)와 다르다.
 
